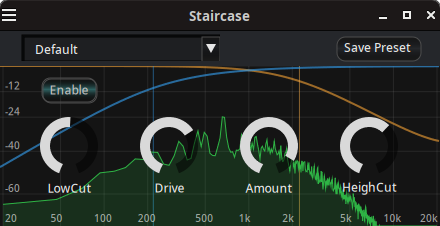
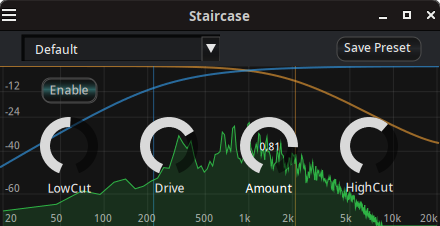
Fix spelling error

diff --git a/Staircase/lv2_plugin.cc b/Staircase/lv2_plugin.cc
@@ -41,21 +41,17 @@ static float freq_to_x(float freq, float f_min, float f_max, int width) {
     const float x_pad = 3.0f;
     if (freq < f_min) freq = f_min;
     if (freq > f_max) freq = f_max;
-
     float norm = log10f(freq / f_min) / log10f(f_max / f_min);
     return  x_pad + norm * (width - 2.0f * x_pad);
 }
 
 static inline float display_tilt(float freq) {
-    if (freq >= 1000.0f)
-        return 0.0f;
-
+    if (freq >= 1000.0f) return 0.0f;
     float t = log10f(freq / 1000.0f);
     return 20.0f * t;
 }
 
-static void draw_text(cairo_t* cr, float x, float y, const char* txt)
-{
+static void draw_text(cairo_t* cr, float x, float y, const char* txt) {
     cairo_move_to(cr, max(5,x), y);
     cairo_show_text(cr, txt);
 }
@@ -63,22 +59,18 @@ static void draw_text(cairo_t* cr, float x, float y, const char* txt)
 static inline float one_pole_mag(float freq, float cutoff, float fs) {
     float wc = 2.0f * (float)M_PI * cutoff;
     float k  = wc / (wc + fs);
-
     float a = k;
     float b = 1.0f - k;
-
     float omega = 2.0f * (float)M_PI * freq / fs;
-
     float real = 1.0f - b * cosf(omega);
     float imag =        b * sinf(omega);
-
     float denom = sqrtf(real*real + imag*imag);
     return a / denom;
 }
 
-static void draw_filter_overlay(cairo_t* cr, int width, int height, float sample_rate,
-           const float f_min, const float f_max, const float db_min,
-           const float db_max, float cutoff, int type) {
+static void draw_filter_overlay(cairo_t* cr, int width, int height,
+            float sample_rate, const float f_min, const float f_max,
+            const float db_min, const float db_max, float cutoff, int type) {
 
     cairo_set_source_rgba(cr, 0.9, 0.6, 0.2, 0.65);
     cairo_set_line_width(cr, 2.0);

diff --git a/Staircase/Staircase.h b/Staircase/Staircase.h
@@ -19,7 +19,7 @@
 
 class LM_EII12 {
 public:
-    float *heighcut;
+    float *highcut;
     float *lowcut;
     float *drive;
     float *amount;
@@ -27,8 +27,8 @@ public:
 
     void setSampleRate(float sr) {
         sampleRate = sr;
-        float wc = 2.0f * M_PI * heighcutState;
-        heighcut = &heighcutState;
+        float wc = 2.0f * M_PI * highcutState;
+        highcut = &highcutState;
         float k  = wc / (wc + sr);
         a = k;
         b = 1.f - k;
@@ -39,7 +39,7 @@ public:
     }
 
     inline void process(float* output, uint32_t n_samples) {
-        float wc = 2.0f * M_PI * *heighcut;
+        float wc = 2.0f * M_PI * *highcut;
         float k  = wc / (wc + sampleRate);
         a = k;
         b = 1.f - k;
@@ -56,7 +56,7 @@ public:
     }
 
 private:
-    float heighcutState = 2100.0f;
+    float highcutState = 2100.0f;
     float lowcutState = 220.0f;
     float sampleRate = 48000.0f;
 

diff --git a/Staircase/Staircase.c b/Staircase/Staircase.c
@@ -45,7 +45,7 @@ void plugin_create_controller_widgets(X11_UI *ui, const char * plugin_uri) {
     ui->widget[2] = add_lv2_knob (ui->widget[2], ui->win, 5, "Amount", ui, 240,  49, 60, 80);
     set_adjustment(ui->widget[2]->adj, 0.75, 0.75, 0.1, 1.0, 0.01, CL_CONTINUOS);
 
-    ui->widget[3] = add_lv2_knob (ui->widget[3], ui->win, 6, "HeighCut", ui, 340,  49, 60, 80);
+    ui->widget[3] = add_lv2_knob (ui->widget[3], ui->win, 6, "HighCut", ui, 340,  49, 60, 80);
     set_adjustment(ui->widget[3]->adj, 2100.0, 2100.0, 40.0, 22000.0, 0.01, CL_LOGARITHMIC);
 
 }

diff --git a/Staircase/Staircase.cpp b/Staircase/Staircase.cpp
@@ -172,7 +172,7 @@ void Xstaircase::connect_(uint32_t port,void* data)
             stair.amount = static_cast<float*>(data);
             break;
         case 6:
-            stair.heighcut = static_cast<float*>(data);
+            stair.highcut = static_cast<float*>(data);
             break;
         case 7:
             notify = (LV2_Atom_Sequence*)data;
